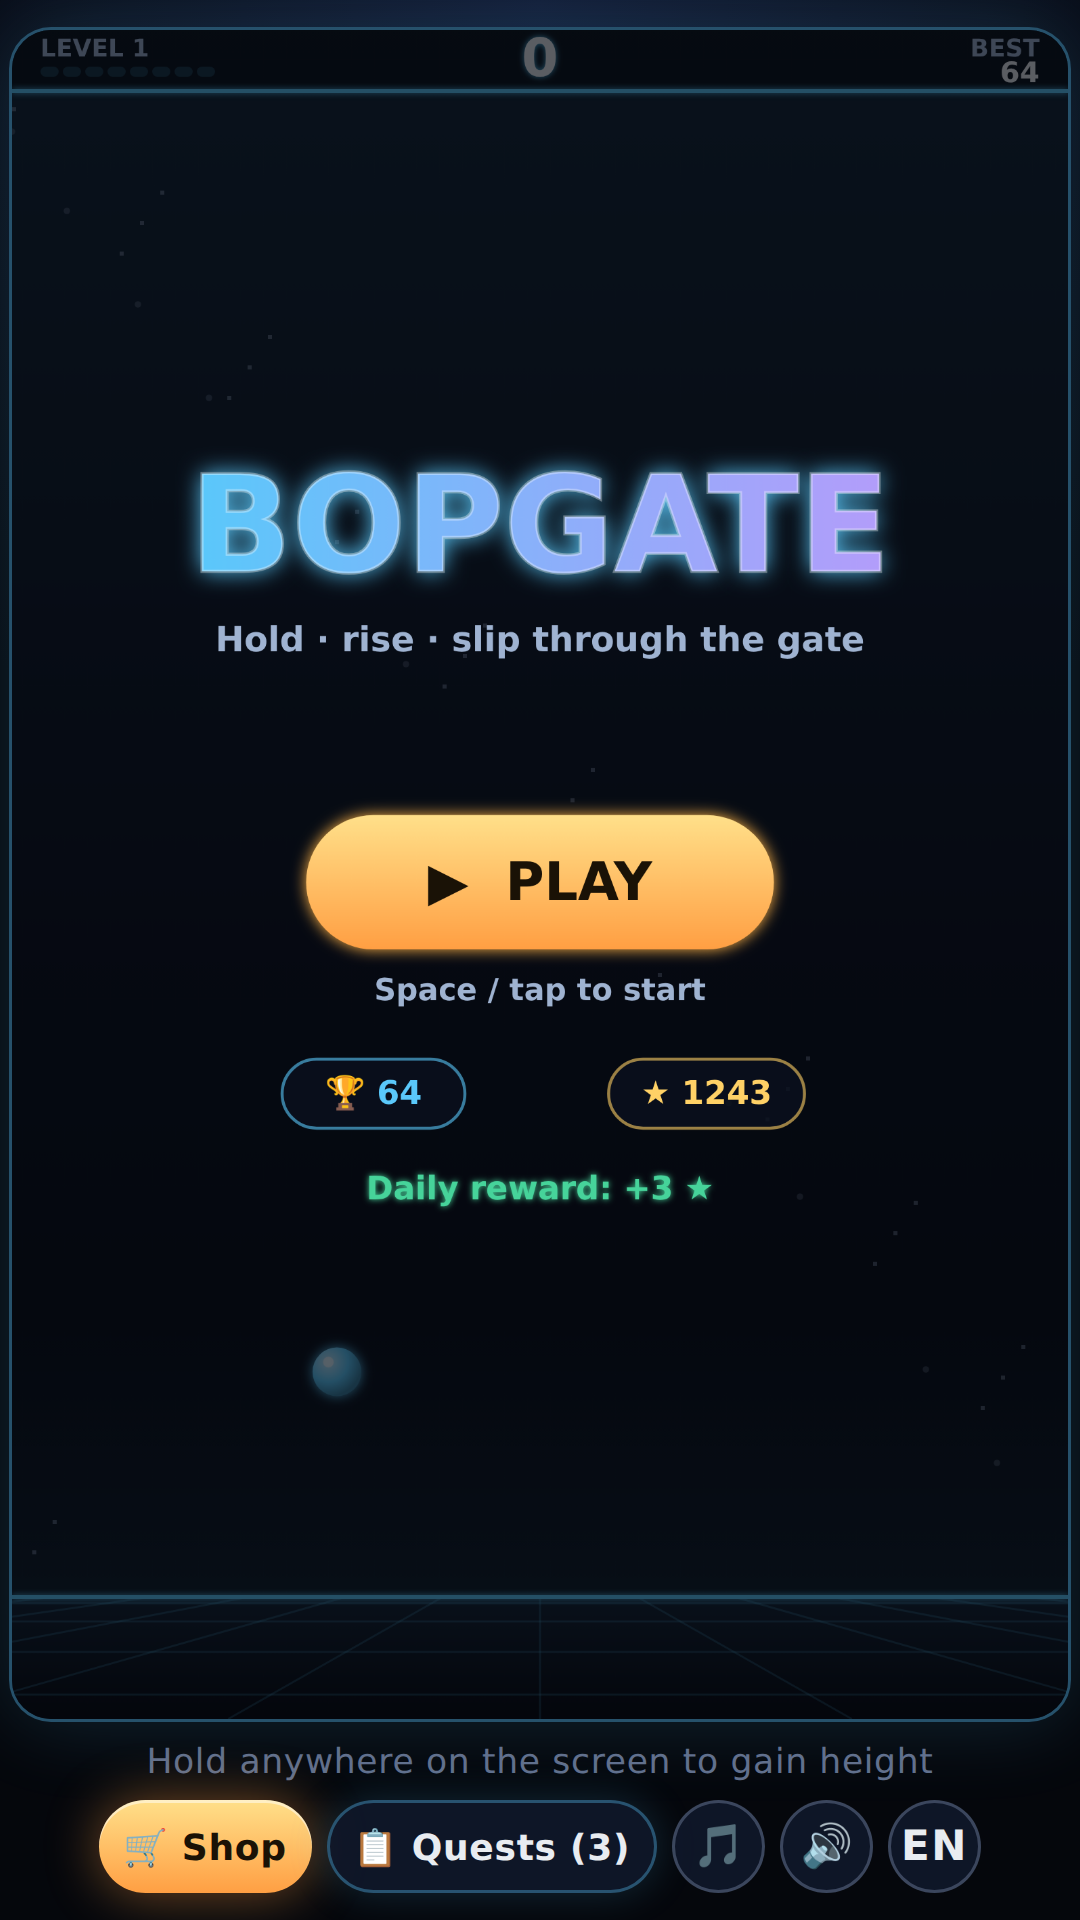
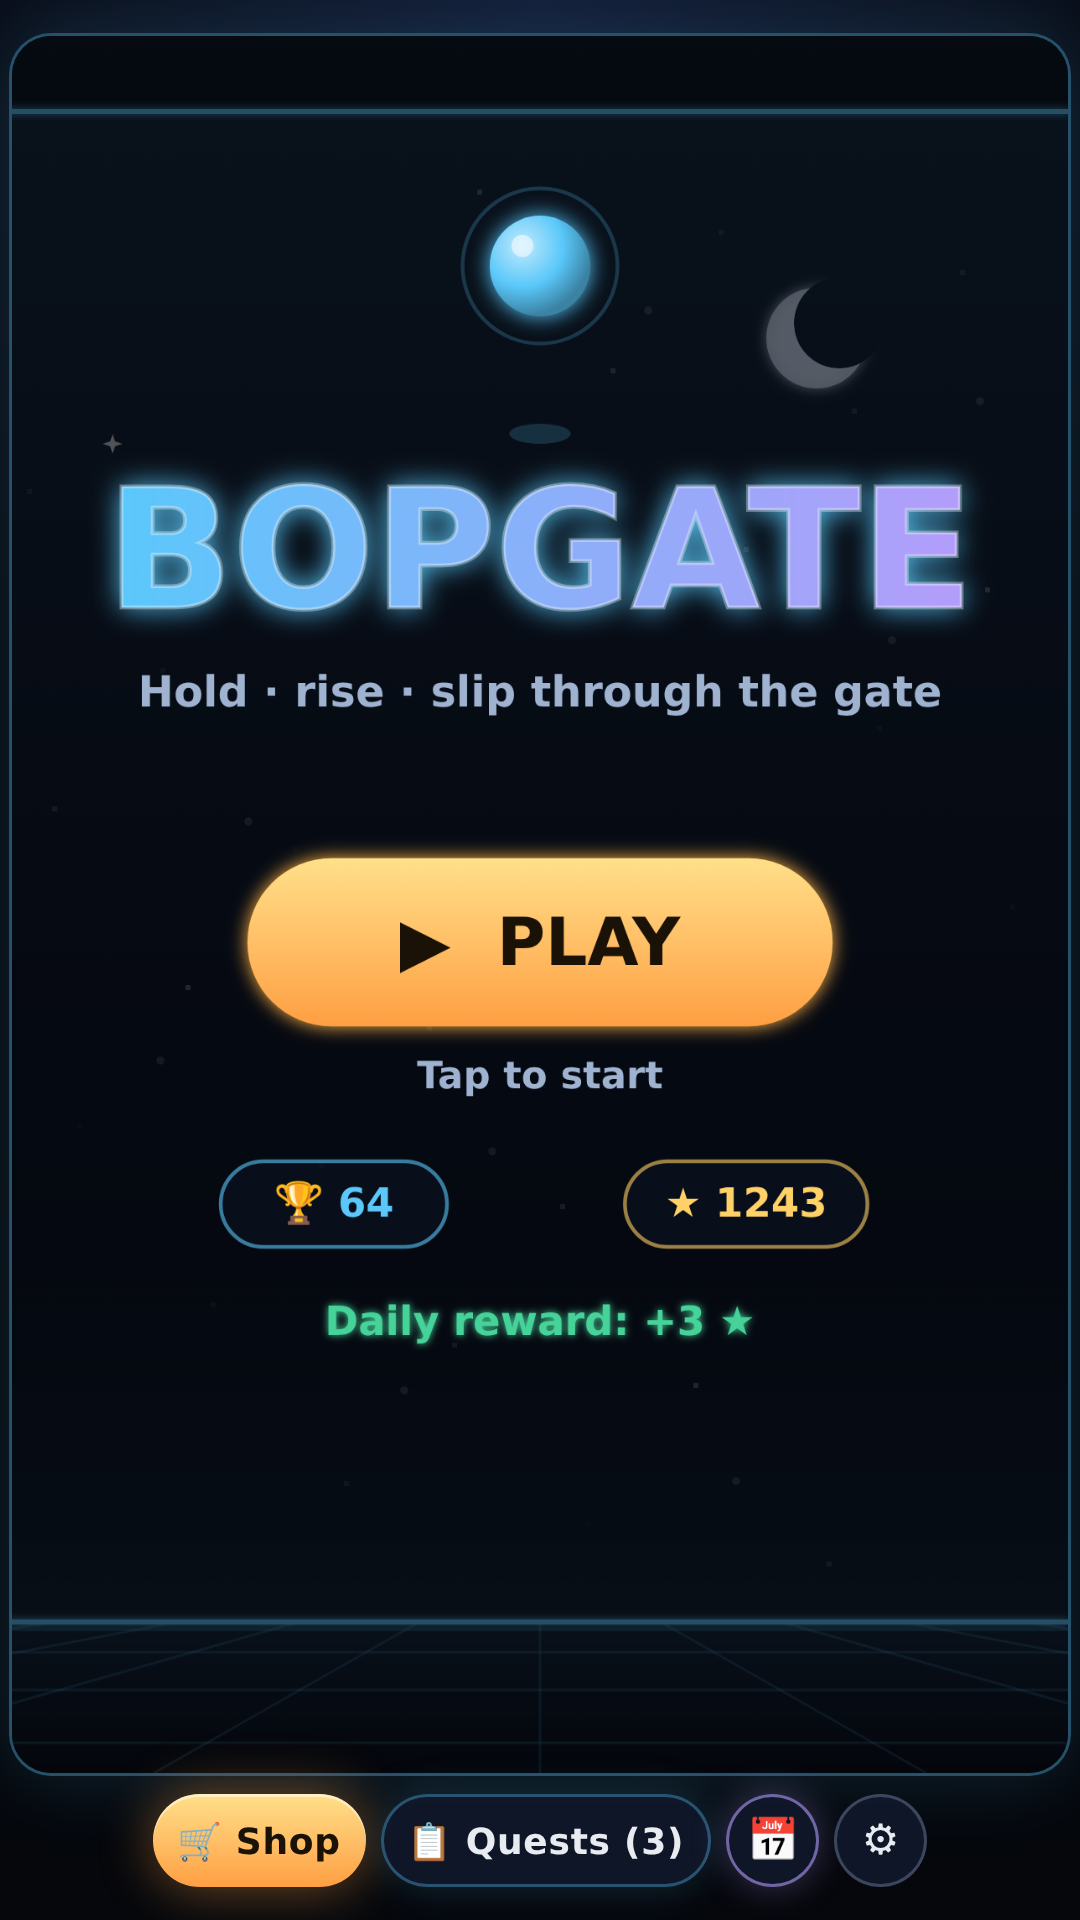
Bopgate: mağaza metinleri ve ekran görüntüleri yeni özelliklerle yenilendi
- magaza-metinleri.md (TR/EN): ilk oyun rehberi, kolay mod, günlük
  meydan okuma + hayalet, MÜKEMMEL serisi; "Yenilikler" satırları
- Ekran görüntüleri yeniden üretildi (1080×1920, TR/EN 6'şar): yeni
  açılış ekranı ve alt çubuk; oyun sahnesinde parlayan kapı ve
  "MÜKEMMEL x3"; yeni 5. görüntü günlük meydan okuma (hayalet top,
  "GÜNLÜK REKOR"); mağaza 6. sıraya kaydı
- Gece haritasında hilal biraz sağa alındı: açılış ekranında zıplayan
  topla üst üste gelmiyordu

Açıklama uzunlukları ~1500 karakter (sınır 4000). test.js ve
test-dom.js PASS; tek dosya yeniden derlendi.

Claude-Session: https://claude.ai/code/session_01SVdLHJmNaTHKmHpDTukGmr

diff --git a/magaza/ekran-goruntusu-uret.js b/magaza/ekran-goruntusu-uret.js
@@ -14,8 +14,8 @@ var GAME = 'file://' + path.join(ROOT, 'oyun-tek-dosya.html');
 var OUT = path.join(__dirname, 'ekran');
 
 var CAPTIONS = {
-  tr: ['Basılı tut · yüksel · kapıdan geç', 'Güçler, kalkanlar, hareketli kapılar', 'Rekorunu kır, liderlikte yüksel'],
-  en: ['Hold to rise. Slip through the gate.', 'Power-ups, shields, moving gates', 'Beat your best. Climb the leaderboard.']
+  tr: ['Basılı tut · yüksel · kapıdan geç', 'Güçler, kalkanlar, hareketli kapılar', 'Rekorunu kır, liderlikte yüksel', 'Günün parkuru: rekorunun hayaletiyle yarış'],
+  en: ['Hold to rise. Slip through the gate.', 'Power-ups, shields, moving gates', 'Beat your best. Climb the leaderboard.', 'Daily course: race your best run\'s ghost']
 };
 
 // Sahne: oyunun kendi mantığıyla ilerletilmiş, kapı ve yıldız dolu bir an
@@ -37,8 +37,8 @@ function sceneScript(kind, lang, caption) {
     cv.width = 520 * 3; cv.height = H * 3;
     cv.style.cssText = 'display:block;width:360px;height:522px';
     document.body.appendChild(cv);
-    var theme = S.find('map', kind === 'guc' ? 'nebula' : kind === 'son' ? 'neon' : 'gece');
-    var skin = S.find('ball', kind === 'guc' ? 'kristal' : kind === 'son' ? 'alev' : 'klasik');
+    var theme = S.find('map', kind === 'guc' ? 'nebula' : kind === 'son' ? 'neon' : kind === 'gunluk' ? 'gunbatimi' : 'gece');
+    var skin = S.find('ball', kind === 'guc' ? 'kristal' : kind === 'son' ? 'alev' : kind === 'gunluk' ? 'gezegen' : 'klasik');
     var st = L.createState(kind === 'guc' ? 11 : kind === 'son' ? 5 : 3, { height: H, mods: { maxShield: 2, startShield: 1, powerMul: 1, magnet: 1 } });
     st.level = kind === 'guc' ? 6 : 4;
     // Mantığı ilerlet; ölürse sahne için yeniden "oynuyor" say (yalnız görüntü üretimi)
@@ -63,6 +63,19 @@ function sceneScript(kind, lang, caption) {
       fx: { trail: trail, particles: [], rings: [{ x: 160, y: st.y, life: 0.18, max: 0.35, color: theme.c.edge }], scorePop: 0.4 },
       banner: kind === 'guc' ? { title: I.L('Bölüm {n}', { n: 6 }), sub: I.L('Çift duvarlar geliyor'), a: 1 } : null
     };
+    if (kind === 'oyun') {
+      // Az önce geçilen kapı parlar, tam ortadan geçiş serisi
+      var passed = null;
+      for (var q = 0; q < st.obstacles.length; q++) if (st.obstacles[q].x + 28 < 160 && (!passed || st.obstacles[q].x > passed.x)) passed = st.obstacles[q];
+      if (passed) { passed.passed = true; view.fx.flash = [{ o: passed, life: 0.2, max: 0.3 }]; }
+      view.fx.callout = { text: I.L('MÜKEMMEL x{n}', { n: 3 }), life: 0.65, max: 0.9, y: st.y, big: true };
+    }
+    if (kind === 'gunluk') {
+      // Günlük meydan okuma: aynı parkurda rekorun hayaleti biraz önde/üstte
+      view.daily = { best: 41, newBest: false };
+      view.ghost = st.y - 70;
+      st.score = 33;
+    }
     if (kind === 'son') {
       st.status = 'over'; st.overReason = 'Duvara çarptın'; st.milestones = 0;
       view.phase = 'over'; view.newBest = true; view.canRestart = true; view.coins = 1240; view.earned = 34; view.touch = true;
@@ -102,7 +115,8 @@ function sceneScript(kind, lang, caption) {
     await shot(2, 'oyun', async function (p) { await p.evaluate(sceneScript(), { kind: 'oyun', lang: lang, caption: CAPTIONS[lang][0] }); });
     await shot(3, 'gucler', async function (p) { await p.evaluate(sceneScript(), { kind: 'guc', lang: lang, caption: CAPTIONS[lang][1] }); });
     await shot(4, 'rekor', async function (p) { await p.evaluate(sceneScript(), { kind: 'son', lang: lang, caption: CAPTIONS[lang][2] }); });
-    await shot(5, 'magaza', async function (p) {
+    await shot(5, 'gunluk', async function (p) { await p.evaluate(sceneScript(), { kind: 'gunluk', lang: lang, caption: CAPTIONS[lang][3] }); });
+    await shot(6, 'magaza', async function (p) {
       await p.evaluate(function () { document.getElementById('magazaBtn').click(); });
       await p.waitForTimeout(250);
     });

diff --git a/oyun-tek-dosya.html b/oyun-tek-dosya.html
@@ -2147,7 +2147,7 @@ function drawDeco(ctx, theme, dist, geo, t) {
     }
   } else {
     // Gece: hilal ay, iki kat yıldız (uzak küçük, yakın büyük) ve pırıltı
-    var mx = wrapX(420, 0.02, d, W0 + 120) - 60, my = CEIL_Y + Math.min(90, span * 0.16);
+    var mx = wrapX(480, 0.02, d, W0 + 120) - 60, my = CEIL_Y + Math.min(90, span * 0.16);
     // Gerçek hilal: iç daire kırpılarak oyulur (gökyüzü gradyanı görünür kalır)
     glow(ctx, '#cfe3ff', 16);
     ctx.fillStyle = 'rgba(225,236,255,0.85)';

diff --git a/render.js b/render.js
@@ -449,7 +449,7 @@ function drawDeco(ctx, theme, dist, geo, t) {
     }
   } else {
     // Gece: hilal ay, iki kat yıldız (uzak küçük, yakın büyük) ve pırıltı
-    var mx = wrapX(420, 0.02, d, W0 + 120) - 60, my = CEIL_Y + Math.min(90, span * 0.16);
+    var mx = wrapX(480, 0.02, d, W0 + 120) - 60, my = CEIL_Y + Math.min(90, span * 0.16);
     // Gerçek hilal: iç daire kırpılarak oyulur (gökyüzü gradyanı görünür kalır)
     glow(ctx, '#cfe3ff', 16);
     ctx.fillStyle = 'rgba(225,236,255,0.85)';

diff --git a/magaza/magaza-metinleri.md b/magaza/magaza-metinleri.md
@@ -21,7 +21,8 @@ Hold to rise. Release to fall. Slip through the gate.
 Bopgate is a one-touch neon arcade game. Your ball bounces on its own — you only decide how high. Hold anywhere on the screen to rise, let go to drop, and thread each glowing gate before the walls close in.
 
 EASY TO LEARN, HARD TO PUT DOWN
-• One finger, no tutorial needed
+• One finger: your first gates open wide and the game shows you when to hold and when to let go
+• Easy mode for relaxed play: slower world, wider gates, its own best score
 • Endless mode: every 10 levels is a milestone, and the challenge slowly climbs
 • New surprises unlock as you go: stars that become shields, moving gates, breathing gates, double walls, floor spikes and power-ups that slow time or shrink your ball
 
@@ -31,6 +32,8 @@ MAKE IT YOURS
 • Permanent boosts: shield capacity, starting shield, longer power-ups, star magnet
 
 EVERY DAY, SOMETHING NEW
+• Daily challenge: everyone gets the same course today — race the ghost of your best run
+• Hit a gate dead center to chain PERFECT combos
 • 3 daily quests and a login streak
 • Global leaderboard and cloud save with Google Play Games
 
@@ -43,7 +46,7 @@ Plays offline. Available in English and Turkish.
 ```
 
 **What's new (first release):**
-`First release: endless neon gates, shop, daily quests, leaderboard and cloud save.`
+`First release: endless neon gates, daily challenge with ghost replay, easy mode, shop, daily quests, leaderboard and cloud save.`
 
 ---
 
@@ -62,7 +65,8 @@ Basılı tut, yüksel. Bırak, düş. Kapıdan geç.
 Bopgate tek dokunuşla oynanan bir neon arcade oyunu. Top kendiliğinden zıplar; sen yalnız ne kadar yükseleceğine karar verirsin. Ekranın herhangi bir yerine basılı tutarak yüksel, bırakarak alçal ve duvarlar yaklaşırken her parlayan kapıdan geç.
 
 ÖĞRENMESİ KOLAY, BIRAKMASI ZOR
-• Tek parmak, öğretici gerekmez
+• Tek parmak: ilk kapılar geniş açılır, oyun ne zaman basılı tutup ne zaman bırakacağını gösterir
+• Rahat oynamak isteyene kolay mod: yavaş dünya, geniş kapılar, ayrı rekor
 • Sonsuz mod: her 10 bölüm bir eşik, zorluk yavaş yavaş artar
 • Bölüm ilerledikçe yenileri açılır: kalkana dönüşen yıldızlar, hareketli kapılar, daralıp genişleyen kapılar, çift duvarlar, zemin dikenleri, zamanı yavaşlatan ve topu küçülten güçler
 
@@ -72,6 +76,8 @@ SENİN TARZIN
 • Kalıcı güçlendirmeler: kalkan kapasitesi, başlangıç kalkanı, uzun güçler, yıldız mıknatısı
 
 HER GÜN YENİ BİR ŞEY
+• Günlük meydan okuma: bugün herkes aynı parkurda — en iyi koşunun hayaletiyle yarış
+• Kapının tam ortasından geç, MÜKEMMEL serisi yap
 • Günde 3 görev ve giriş serisi
 • Google Play Games ile liderlik tablosu ve bulut kayıt
 
@@ -84,7 +90,7 @@ ADİL TASARIM
 ```
 
 **Yenilikler (ilk sürüm):**
-`İlk sürüm: sonsuz neon kapılar, mağaza, günlük görevler, liderlik tablosu ve bulut kayıt.`
+`İlk sürüm: sonsuz neon kapılar, hayaletli günlük meydan okuma, kolay mod, mağaza, günlük görevler, liderlik tablosu ve bulut kayıt.`
 
 ---
 
@@ -94,8 +100,8 @@ ADİL TASARIM
 |---|---|---|
 | Uygulama simgesi | `android-paket/kaynak/ikon-512.png` | 512×512 |
 | Öne çıkan görsel | `android-paket/kaynak/tanitim-1024x500.png` | 1024×500 |
-| Telefon ekran görüntüleri (EN) | `magaza/ekran/en-1…5-*.png` | 1080×1920 |
-| Telefon ekran görüntüleri (TR) | `magaza/ekran/tr-1…5-*.png` | 1080×1920 |
+| Telefon ekran görüntüleri (EN) | `magaza/ekran/en-1…6-*.png` | 1080×1920 |
+| Telefon ekran görüntüleri (TR) | `magaza/ekran/tr-1…6-*.png` | 1080×1920 |
 
 Not: öne çıkan görseldeki alt yazı Türkçe ("Bas · sek · kapıdan geç"); İngilizce mağaza için ayrı bir
 öne çıkan görsel gerekirse `android-paket/ikon-uret.js` İngilizce metinle yeniden çalıştırılmalı.
